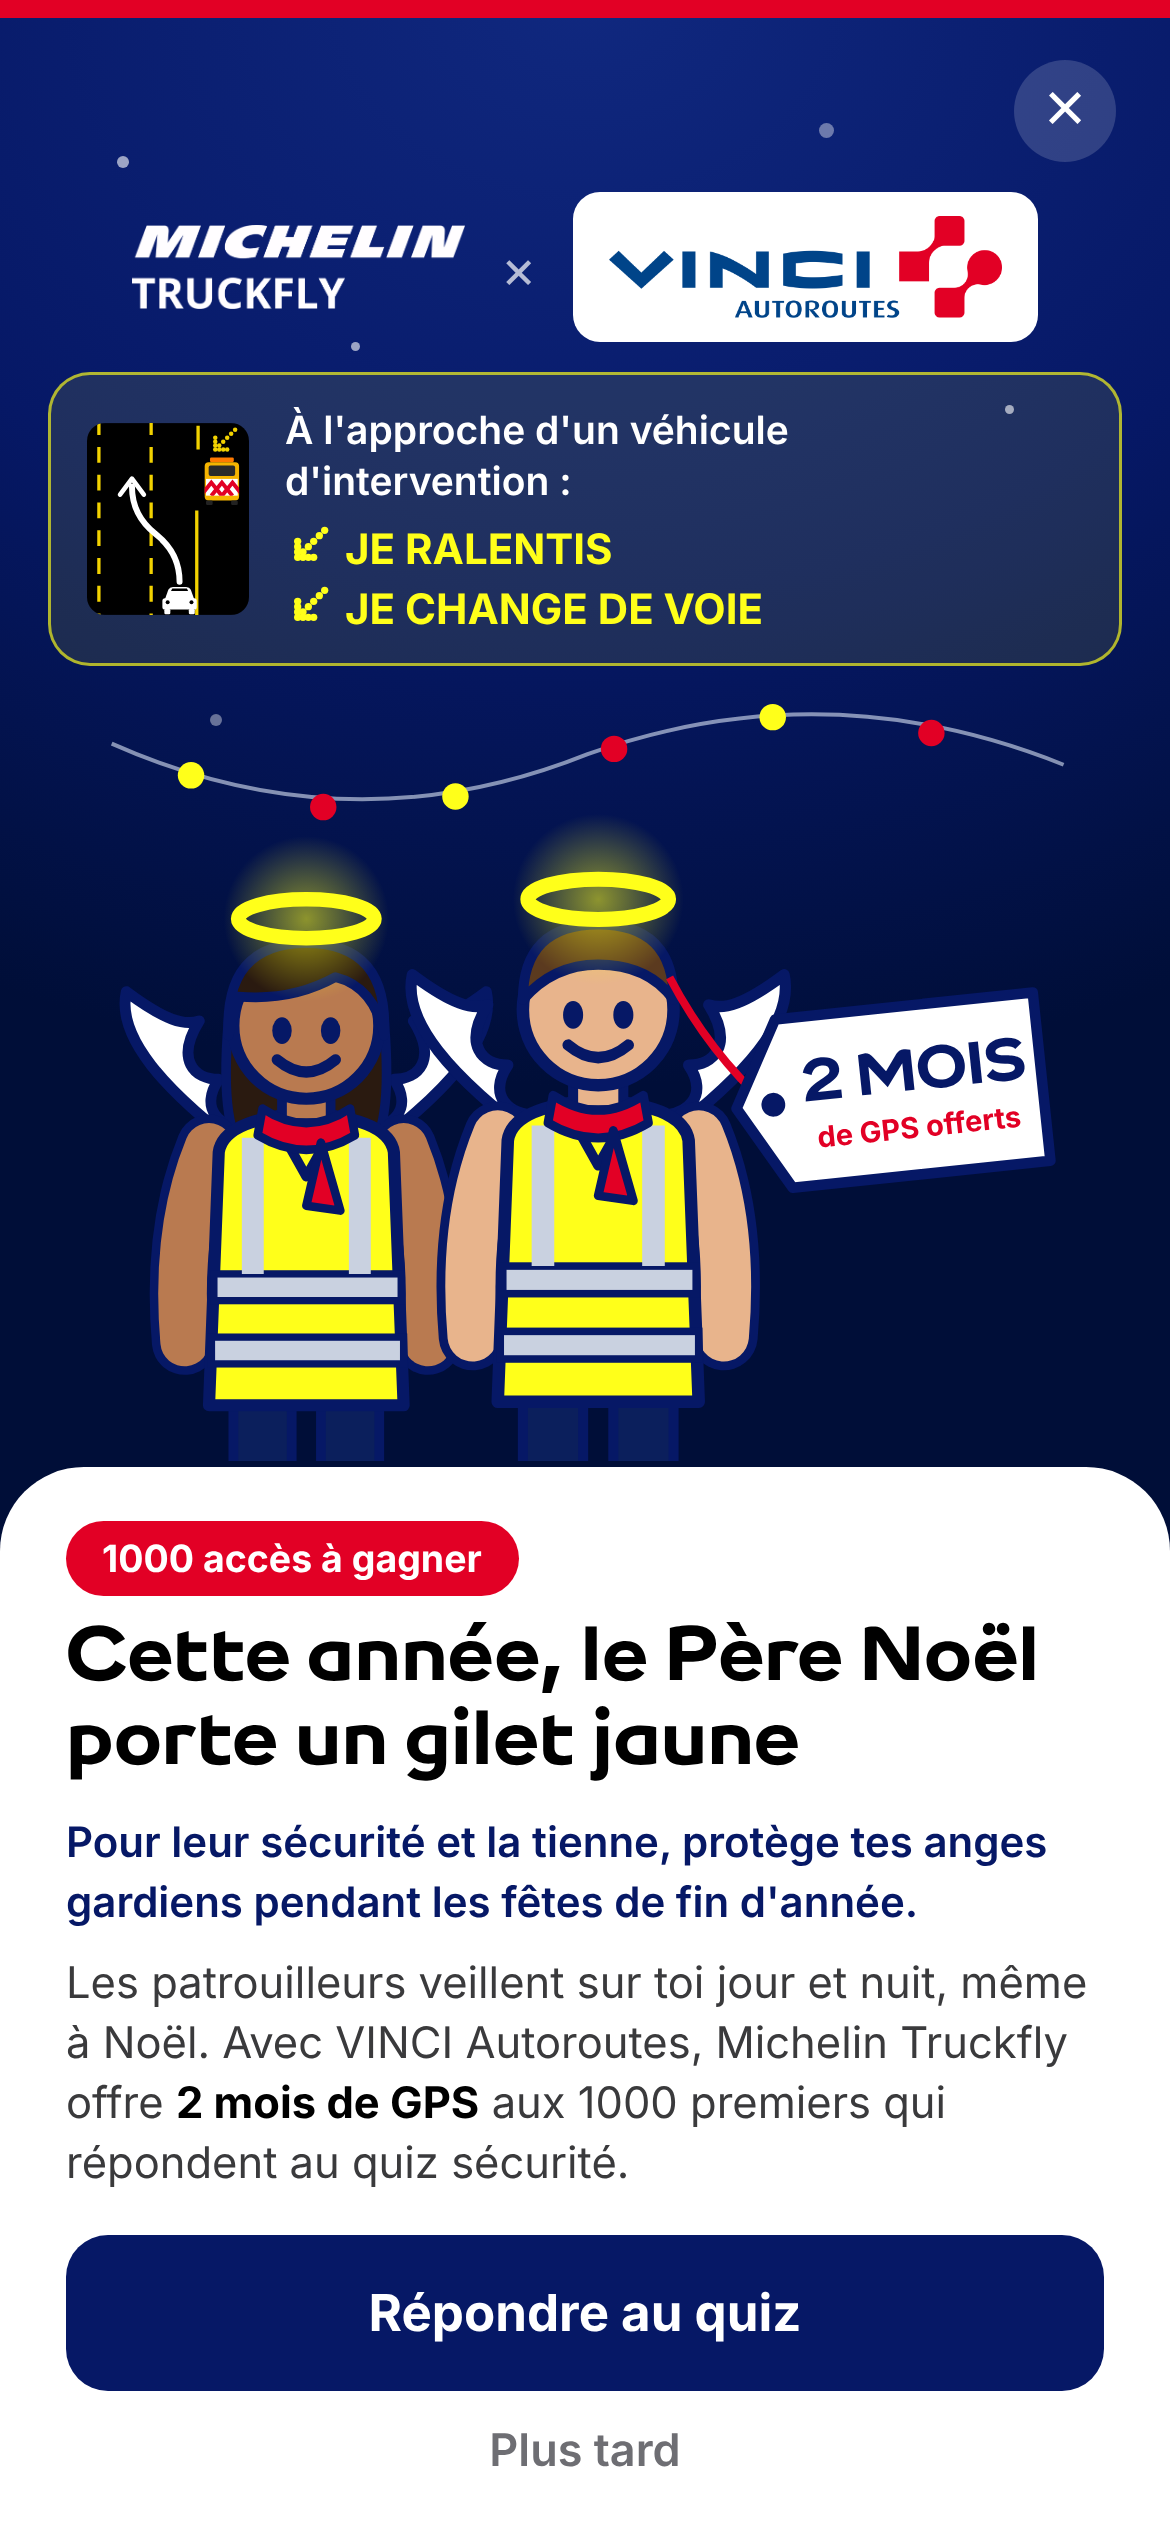
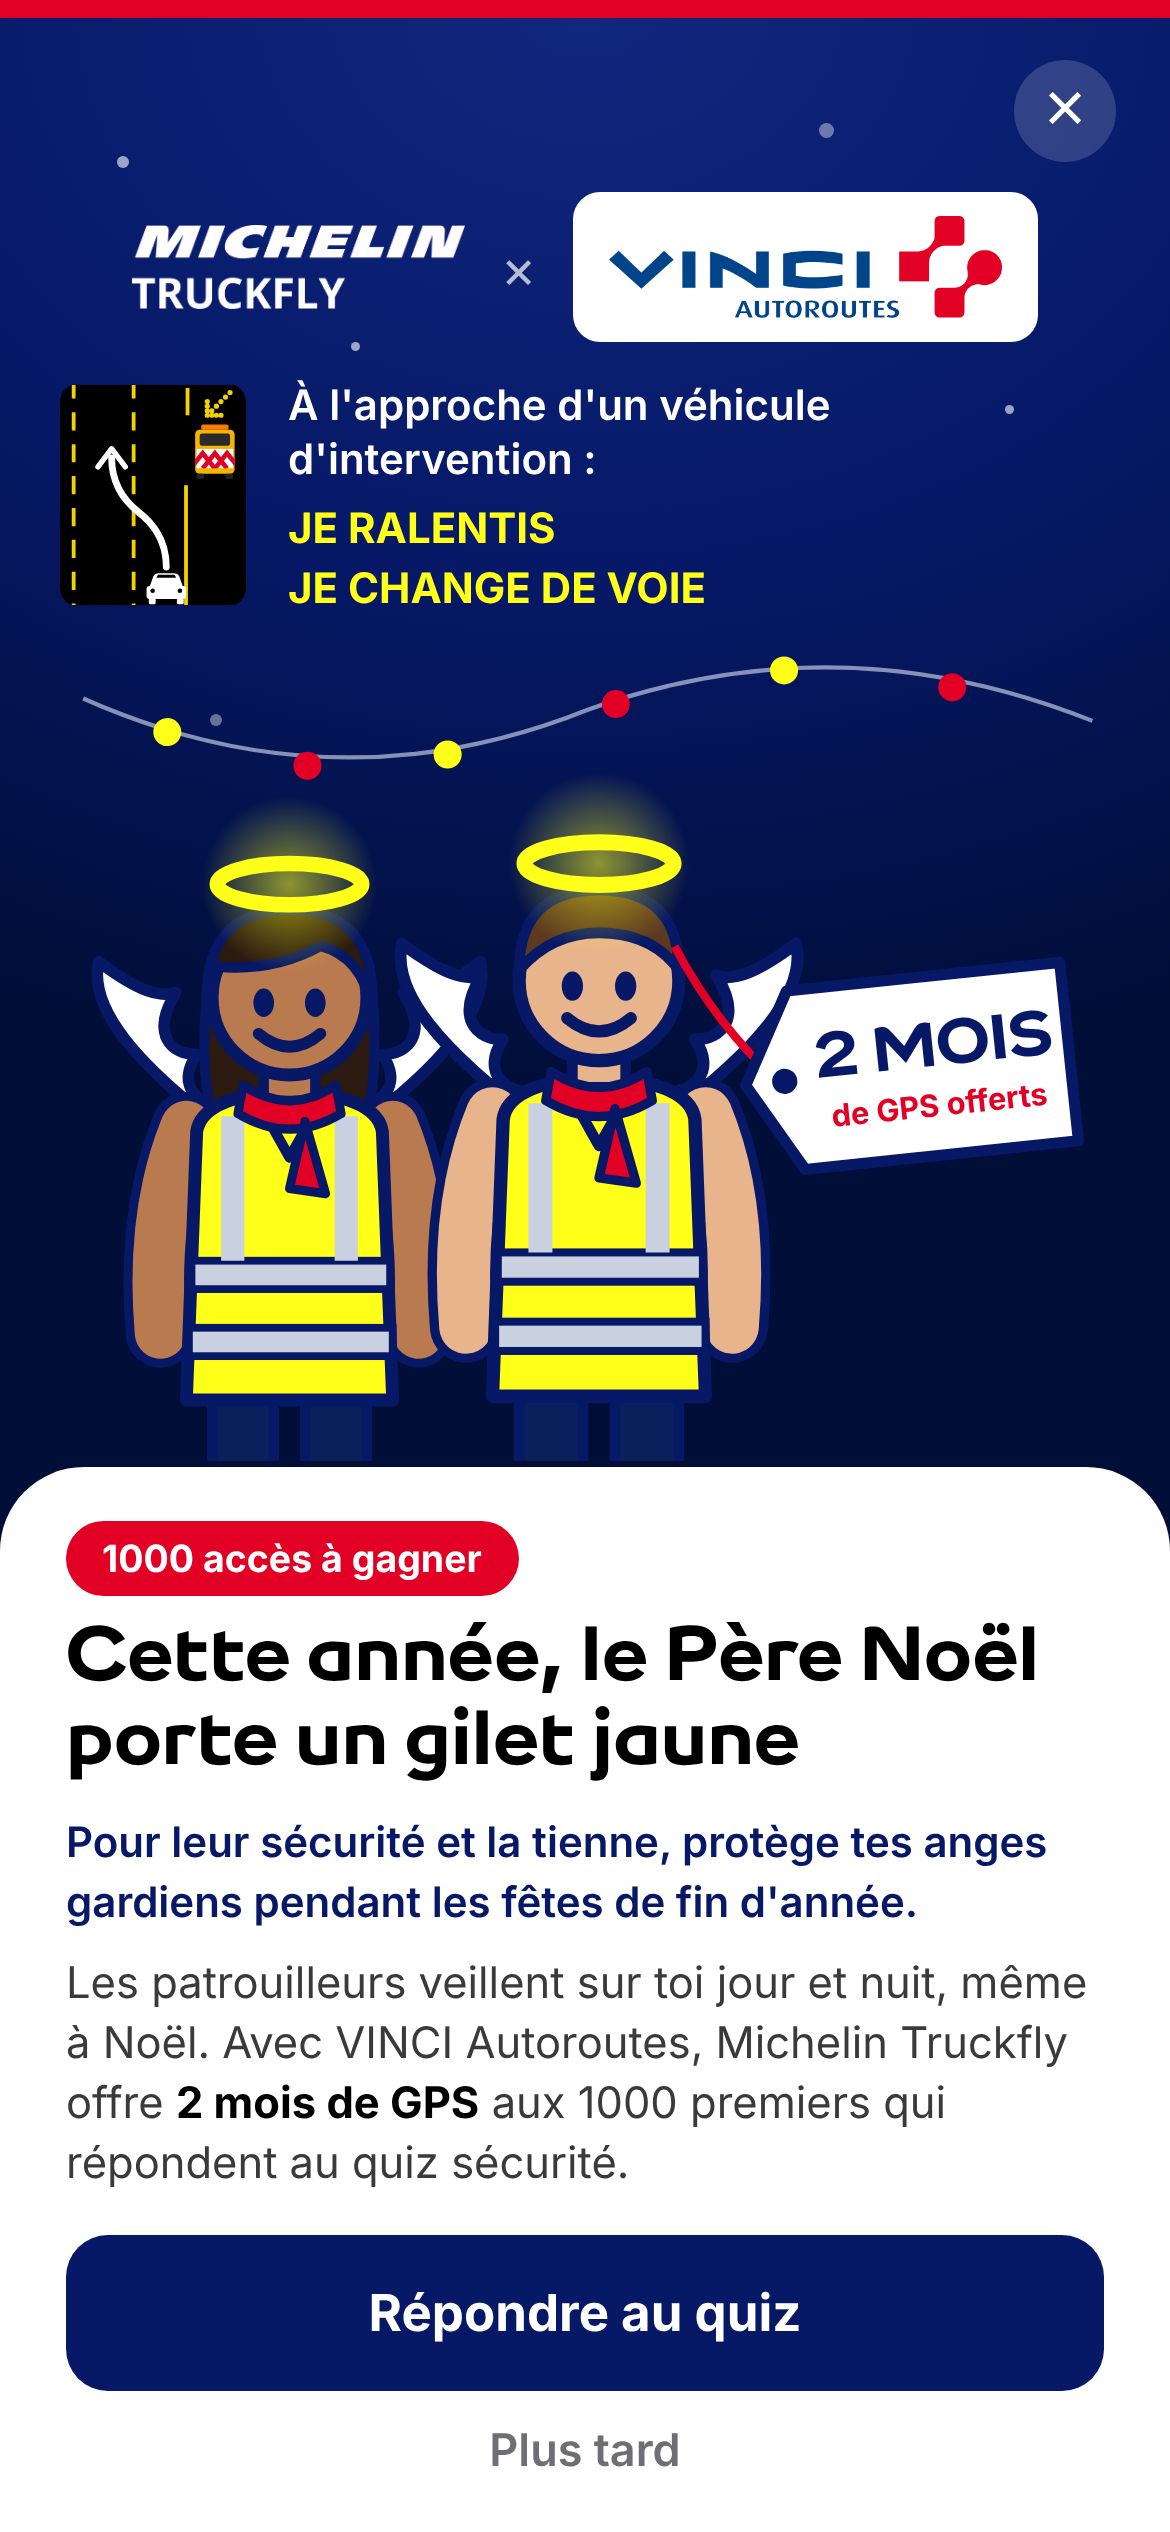
Interstitiel VINCI : bloc corridor réduit au schéma et à la phrase
Claude-Session: https://claude.ai/code/session_01Dxf6WJt6yEW2EorFoXnocV

Changed region(s): [[0.0308, 0.1248, 0.9846, 0.5928]]

diff --git a/interstitiels/vinci-fetes/index.html b/interstitiels/vinci-fetes/index.html
@@ -69,9 +69,9 @@ b.fort { color: #000; }
 .bas { position: relative; flex: none; padding: 6px 22px 18px; display: flex; flex-direction: column; }
 .scene { width: 100%; flex: 1 1 0; min-height: 0; height: auto; }
 /* Bloc corridor de sécurité (message et pictogrammes VINCI Autoroutes) */
-.corridor { align-self: stretch; flex: none; display: flex; gap: 12px; align-items: center; padding: 10px 12px; border-radius: 14px; background: rgba(255, 255, 26, 0.1); border: 1.5px solid rgba(255, 255, 26, 0.65); }
-.corridor .picto { width: 54px; height: 64px; flex: none; border-radius: 6px; }
-.c-titre { font-size: 13px; font-weight: 600; line-height: 1.3; color: #fff; }
+.corridor { align-self: stretch; flex: none; display: flex; gap: 14px; align-items: center; padding: 2px 4px; }
+.corridor .picto { width: 62px; height: 74px; flex: none; border-radius: 6px; }
+.c-titre { font-size: 14px; font-weight: 600; line-height: 1.3; color: #fff; }
 .c-gestes { display: flex; flex-direction: column; gap: 3px; margin-top: 5px; font-size: 14px; font-weight: 700; color: var(--jaune); }
 .c-gestes span { display: flex; align-items: center; gap: 5px; }
 .c-gestes svg { width: 15px; height: 15px; flex: none; }
@@ -269,7 +269,7 @@ b.fort { color: #000; }
   <button class="fermer" aria-label="Fermer">×</button>
   <div class="v-plein">
     <div class="duo entre" style="--d:0s"><img src="assets/truckfly-blanc-rogne.png" alt="Michelin Truckfly" /><span class="x">×</span><span class="logo-vinci"><img src="assets/vinci-autoroutes.png" alt="VINCI Autoroutes" /></span></div>
-    <div class="corridor entre" style="--d:.1s"><svg class="picto" viewBox="0 0 245 290" aria-hidden="true"><use href="#picto-corridor" /></svg><div><p class="c-titre">À l'approche d'un véhicule d'intervention&nbsp;:</p><p class="c-gestes"><span><svg viewBox="0 0 16 16" aria-hidden="true"><use href="#ico-pointilles" /></svg>JE RALENTIS</span><span><svg viewBox="0 0 16 16" aria-hidden="true"><use href="#ico-pointilles" /></svg>JE CHANGE DE VOIE</span></p></div></div>
+    <div class="corridor entre" style="--d:.1s"><svg class="picto" viewBox="0 0 245 290" aria-hidden="true"><use href="#picto-corridor" /></svg><div><p class="c-titre">À l'approche d'un véhicule d'intervention&nbsp;:</p><p class="c-gestes"><span>JE RALENTIS</span><span>JE CHANGE DE VOIE</span></p></div></div>
     <svg class="scene entre" style="--d:.2s" viewBox="0 0 360 330" aria-hidden="true">
       <use href="#guirlande" y="6" />
       <path d="M0 270 L360 250 L360 330 L0 330 Z" fill="#0b1f5c" />
@@ -302,7 +302,7 @@ b.fort { color: #000; }
       <i style="left:86%;top:26%;--t:3px;--d:3.4s"></i><i style="left:52%;top:16%;--t:3px;--o:.5;--d:4.2s"></i><i style="left:18%;top:46%;--t:4px;--o:.4;--d:2.6s"></i>
     </div>
     <div class="duo entre" style="--d:0s"><img src="assets/truckfly-blanc-rogne.png" alt="Michelin Truckfly" /><span class="x">×</span><span class="logo-vinci"><img src="assets/vinci-autoroutes.png" alt="VINCI Autoroutes" /></span></div>
-    <div class="corridor entre" style="--d:.1s"><svg class="picto" viewBox="0 0 245 290" aria-hidden="true"><use href="#picto-corridor" /></svg><div><p class="c-titre">À l'approche d'un véhicule d'intervention&nbsp;:</p><p class="c-gestes"><span><svg viewBox="0 0 16 16" aria-hidden="true"><use href="#ico-pointilles" /></svg>JE RALENTIS</span><span><svg viewBox="0 0 16 16" aria-hidden="true"><use href="#ico-pointilles" /></svg>JE CHANGE DE VOIE</span></p></div></div>
+    <div class="corridor entre" style="--d:.1s"><svg class="picto" viewBox="0 0 245 290" aria-hidden="true"><use href="#picto-corridor" /></svg><div><p class="c-titre">À l'approche d'un véhicule d'intervention&nbsp;:</p><p class="c-gestes"><span>JE RALENTIS</span><span>JE CHANGE DE VOIE</span></p></div></div>
     <svg class="scene entre" style="--d:.2s" viewBox="0 0 358 290" aria-hidden="true">
       <use href="#guirlande" />
       <g class="flotte"><use href="#ange-f" transform="translate(0 64) scale(.92)" /></g>
@@ -338,7 +338,7 @@ b.fort { color: #000; }
   <button class="fermer" aria-label="Fermer">×</button>
   <div class="v-plein" style="gap:8px">
     <div class="duo entre" style="--d:0s"><img src="assets/truckfly-blanc-rogne.png" alt="Michelin Truckfly" /><span class="x">×</span><span class="logo-vinci"><img src="assets/vinci-autoroutes.png" alt="VINCI Autoroutes" /></span></div>
-    <div class="corridor entre" style="--d:.1s"><svg class="picto" viewBox="0 0 245 290" aria-hidden="true"><use href="#picto-corridor" /></svg><div><p class="c-titre">À l'approche d'un véhicule d'intervention&nbsp;:</p><p class="c-gestes"><span><svg viewBox="0 0 16 16" aria-hidden="true"><use href="#ico-pointilles" /></svg>JE RALENTIS</span><span><svg viewBox="0 0 16 16" aria-hidden="true"><use href="#ico-pointilles" /></svg>JE CHANGE DE VOIE</span></p></div></div>
+    <div class="corridor entre" style="--d:.1s"><svg class="picto" viewBox="0 0 245 290" aria-hidden="true"><use href="#picto-corridor" /></svg><div><p class="c-titre">À l'approche d'un véhicule d'intervention&nbsp;:</p><p class="c-gestes"><span>JE RALENTIS</span><span>JE CHANGE DE VOIE</span></p></div></div>
     <svg class="scene entre" style="--d:.2s" viewBox="0 0 360 350" aria-hidden="true">
       <!-- halo derrière le sapin -->
       <circle cx="180" cy="170" r="150" fill="url(#lueur)" opacity=".35" />
@@ -415,7 +415,7 @@ b.fort { color: #000; }
   <button class="fermer" aria-label="Fermer">×</button>
   <div class="v-plein">
     <div class="duo entre" style="--d:0s"><img src="assets/truckfly-blanc-rogne.png" alt="Michelin Truckfly" /><span class="x">×</span><span class="logo-vinci"><img src="assets/vinci-autoroutes.png" alt="VINCI Autoroutes" /></span></div>
-    <div class="corridor entre" style="--d:.1s"><svg class="picto" viewBox="0 0 245 290" aria-hidden="true"><use href="#picto-corridor" /></svg><div><p class="c-titre">À l'approche d'un véhicule d'intervention&nbsp;:</p><p class="c-gestes"><span><svg viewBox="0 0 16 16" aria-hidden="true"><use href="#ico-pointilles" /></svg>JE RALENTIS</span><span><svg viewBox="0 0 16 16" aria-hidden="true"><use href="#ico-pointilles" /></svg>JE CHANGE DE VOIE</span></p></div></div>
+    <div class="corridor entre" style="--d:.1s"><svg class="picto" viewBox="0 0 245 290" aria-hidden="true"><use href="#picto-corridor" /></svg><div><p class="c-titre">À l'approche d'un véhicule d'intervention&nbsp;:</p><p class="c-gestes"><span>JE RALENTIS</span><span>JE CHANGE DE VOIE</span></p></div></div>
     <svg class="scene entre" style="--d:.2s" viewBox="0 0 360 330" aria-hidden="true">
       <use href="#guirlande" y="6" />
       <path d="M0 270 L360 250 L360 330 L0 330 Z" fill="#0b1f5c" />
